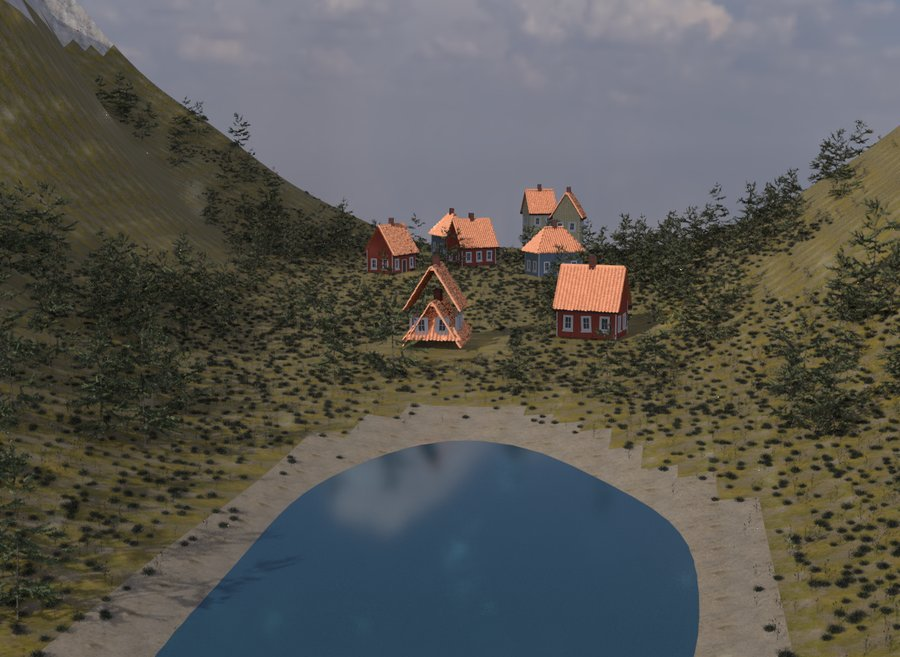
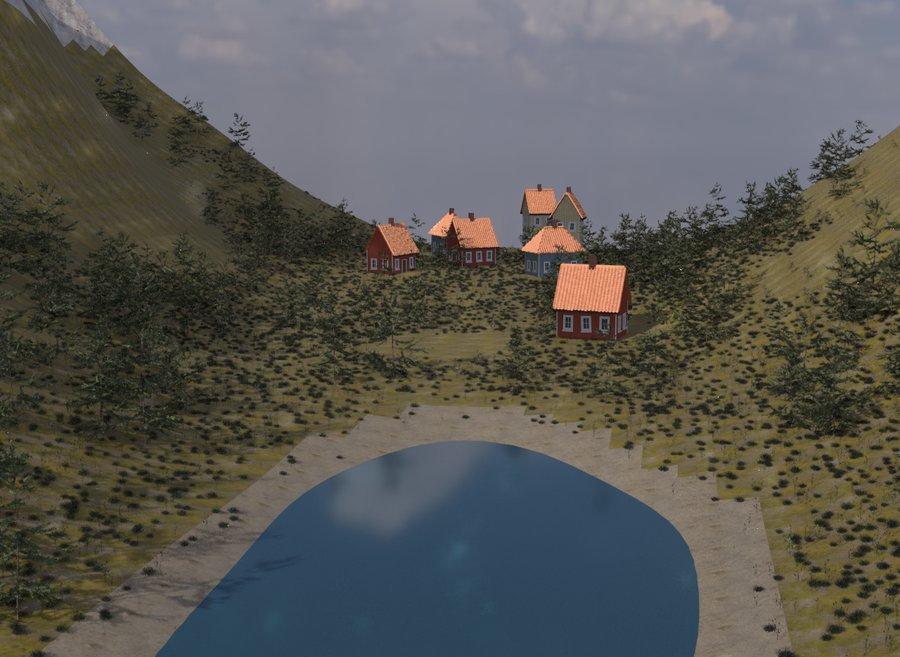
📝 Examples: final renders; street houses clear the fences
Renders regenerated from a clean run of all seven scripts with the
chunk fixes and Height Field merged: the forest and valley no longer
show their prototypes, and the street replaces houses and water.

The street's houses stand 7 m back, so their eaves clear the fences.
The example tests drop Qt's offscreen platform while a script runs:
conftest sets it for the in-process Qt tests, usdrecord inherited it,
and Storm crashed rendering the street every time under pytest.

Changed region(s): [[0.4356, 0.3957, 0.5911, 0.5479], [0.4667, 0.6697, 0.4978, 0.7002]]

diff --git a/tests/test_example_pipelines.py b/tests/test_example_pipelines.py
@@ -57,6 +57,10 @@ def _run(name: str, tmp_path_factory) -> Path:
     elsewhere = tmp_path_factory.mktemp("cwd")
     with pytest.MonkeyPatch.context() as mp:
         mp.chdir(elsewhere)
+        # conftest sets Qt's offscreen platform for the in-process Qt tests. The Render chunk's
+        # usdrecord inherits it and makes its GL context through Qt, and Storm then crashes on
+        # some scenes (the street, every time): leave it out of the renders.
+        mp.delenv("QT_QPA_PLATFORM", raising=False)
         mp.syspath_prepend(str(SCRIPTS))  # the scripts import example_assets from beside them
         mp.setattr(sys, "argv", [str(SCRIPTS / f"{name}.py"), str(out)])
         runpy.run_path(str(SCRIPTS / f"{name}.py"), run_name="__main__")
@@ -258,10 +262,11 @@ def test_street_houses_stand_on_both_sides_facing_it(tmp_path_factory) -> None:
     for i in range(1, 9):
         house = _bound(stage, f"/World/houses/house{i}")
         assert house.GetMin()[2] == pytest.approx(0.0, abs=0.1), f"house{i} stands on the ground"
+        # Behind the fence along its side of the street (4.5 m out), eaves and all.
         if i <= 4:
-            assert house.GetMin()[1] >= 5.9, f"house{i} is on the north side, behind its front garden"
+            assert house.GetMin()[1] > 4.5, f"house{i} is on the north side, behind its fence"
         else:
-            assert house.GetMax()[1] <= -5.9, f"house{i} is on the south side, behind its front garden"
+            assert house.GetMax()[1] < -4.5, f"house{i} is on the south side, behind its fence"
     two_floors = _bound(stage, "/World/houses/house2").GetMax()[2]
     assert two_floors > _bound(stage, "/World/houses/house1").GetMax()[2], "two floors stand taller than one"
     assert _bound_material(stage, "/World/street") == "/World/looks/street"

diff --git a/examples/scripts/street.py b/examples/scripts/street.py
@@ -45,7 +45,7 @@ SOUTH = [
     {"width": 7.0, "roof_style": "Gable", "floors": 2, "wall_color": YELLOW},
 ]
 STREET = 3.5  # half the street's width, metres
-SETBACK = 6.0  # from the middle of the street to a house's front wall
+SETBACK = 7.0  # from the middle of the street to a house's front wall
 GAP = 4.0  # between neighbouring houses
 START = -22.0  # where each row begins along the street
 
@@ -80,9 +80,9 @@ if __name__ == "__main__":
                     last = scene.create.transform(last, primpath_location=path, tx=x + house["width"], ty=-SETBACK,
                                                   rz=180.0)
                 x += house["width"] + GAP
-        # A picket fence along each row of front gardens, a metre and a half off the street.
+        # A picket fence along each row of front gardens, a metre off the street.
         length = 2.0 * -START
-        for side, y in (("North", STREET + 1.5), ("South", -STREET - 1.5)):
+        for side, y in (("North", STREET + 1.0), ("South", -STREET - 1.0)):
             path = f"/World/fences/{side.lower()}"
             last = scene.create.fence(last, name=f"Fence{side}", prim_path=path, length=length, height=0.9)
             last = scene.create.transform(last, primpath_location=path, tx=START, ty=y)
